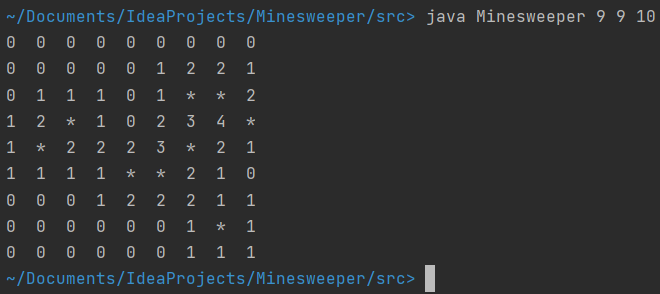
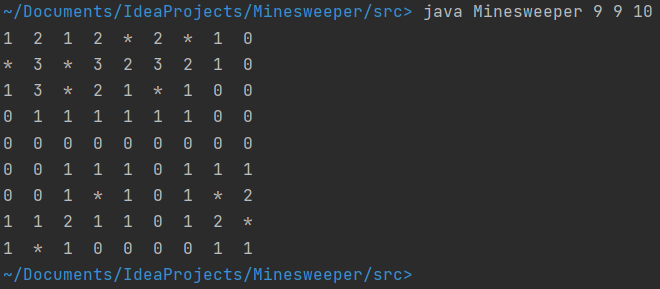
Small fix to args

diff --git a/src/Minesweeper.java b/src/Minesweeper.java
@@ -70,7 +70,7 @@ public class Minesweeper {
     }
 
     public static void main(String[] args) {
-        Minesweeper minesweeper = new Minesweeper(Integer.parseInt(args[0]), Integer.parseInt(args[1]), Integer.parseInt(args[1]));
+        Minesweeper minesweeper = new Minesweeper(Integer.parseInt(args[0]), Integer.parseInt(args[1]), Integer.parseInt(args[2]));
         minesweeper.placeMines();
         minesweeper.adjacentMinesCount();
         minesweeper.printMinesweeperBoard();
